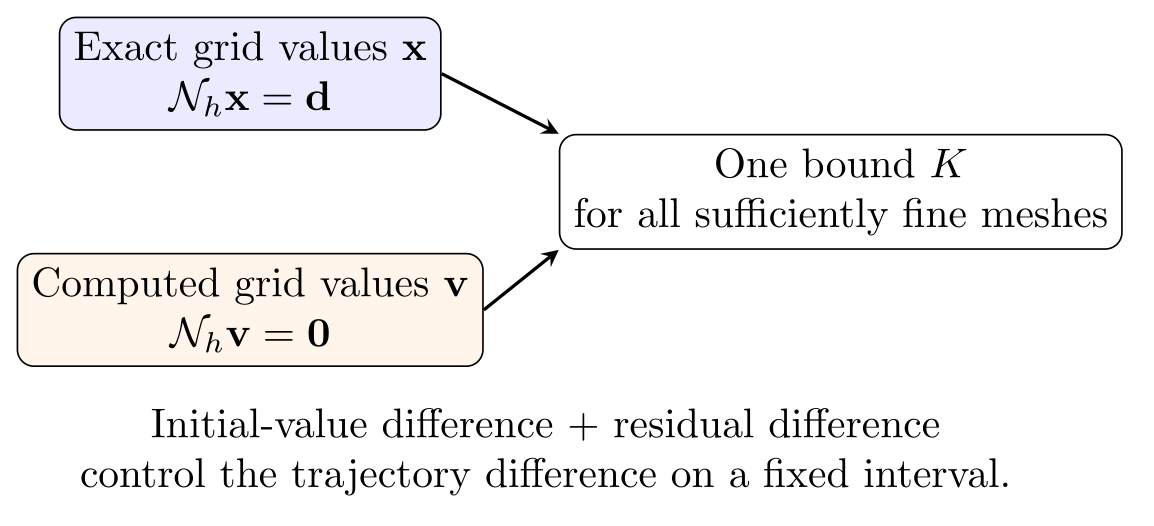
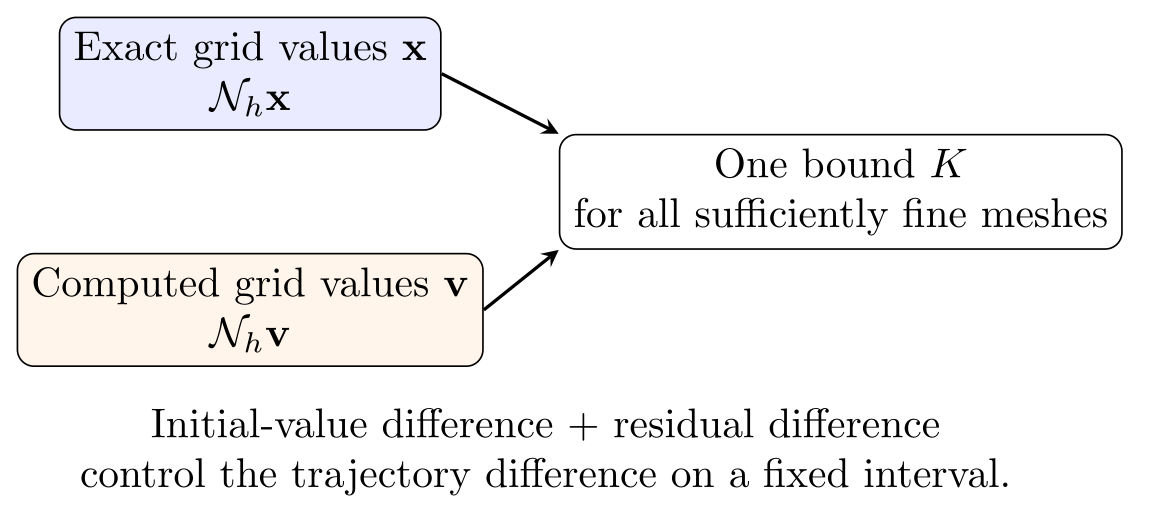
Keep convergence sketch from revealing activity residuals

Changed region(s): [[0.156, 0.6084, 0.312, 0.6692], [0.1248, 0.1521, 0.2808, 0.2129]]

diff --git a/figures/tikz/ni-stability-bound.tex b/figures/tikz/ni-stability-bound.tex
@@ -1,7 +1,7 @@
 % The inverse operator bound converts residual differences to trajectory differences.
 \begin{tikzpicture}[>=stealth,font=\normalsize,box/.style={draw,rounded corners,align=center,minimum height=.8cm}]
-\node[box,fill=blue!8](a)at(0,1){Exact grid values $\mathbf x$\\$\mathcal N_h\mathbf x=\mathbf d$};
-\node[box,fill=orange!8](b)at(0,-1){Computed grid values $\mathbf v$\\$\mathcal N_h\mathbf v=\mathbf0$};
+\node[box,fill=blue!8](a)at(0,1){Exact grid values $\mathbf x$\\$\mathcal N_h\mathbf x$};
+\node[box,fill=orange!8](b)at(0,-1){Computed grid values $\mathbf v$\\$\mathcal N_h\mathbf v$};
 \node[box](c)at(5,0){One bound $K$\\for all sufficiently fine meshes};
 \draw[->,thick](a.east)--(c.north west);\draw[->,thick](b.east)--(c.south west);
 \node[align=center]at(2.5,-2.2){Initial-value difference + residual difference\\control the trajectory difference on a fixed interval.};
